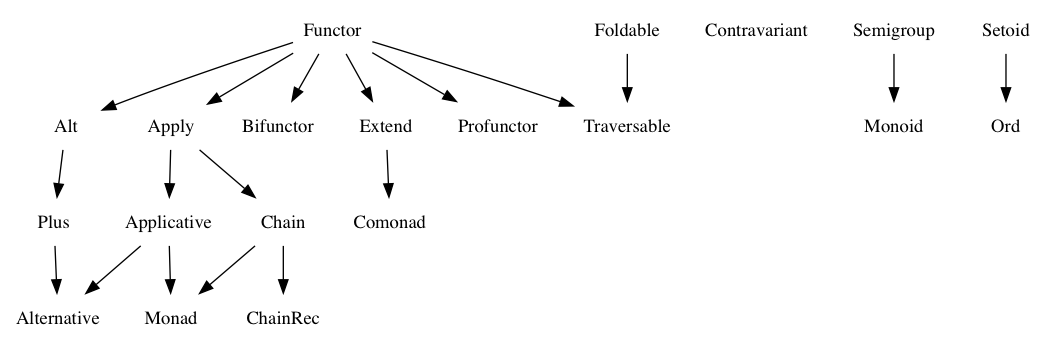
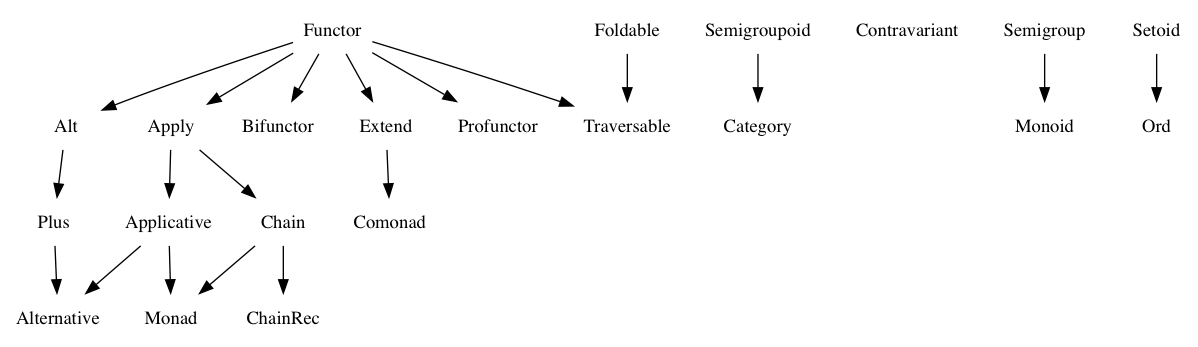
Add Category spec

diff --git a/test.js b/test.js
@@ -20,6 +20,7 @@ const ord = require('./laws/ord');
 const plus = require('./laws/plus');
 const semigroup = require('./laws/semigroup');
 const semigroupoid = require('./laws/semigroupoid');
+const category = require('./laws/category');
 const setoid = require('./laws/setoid');
 const traversable = require('./laws/traversable');
 
@@ -50,6 +51,11 @@ exports.applicative = {
 
 exports.apply = {
   composition: test(apply.composition(Id)(equality)),
+};
+
+exports.category = {
+  leftIdentity: test(category.leftIdentity(x => x + 1)(equality)),
+  rightIdentity: test(category.rightIdentity(x => x + 1)(equality)),
 };
 
 exports.chain = {

diff --git a/laws/category.js b/laws/category.js
@@ -1,0 +1,26 @@
+'use strict';
+
+const {compose, id} = require('..');
+
+/**
+
+   ### Category
+
+   1. `a.compose(C.id())` is equivalent to `a` (right identity)
+   2. `C.id().compose(a)` is equivalent to `a` (left identity)
+
+**/
+
+const leftIdentity = f => eq => x => {
+  const a = f[compose](Function[id]())(x);
+  const b = f(x);
+  return eq(a, b);
+};
+
+const rightIdentity = f => eq => x => {
+  const a = Function[id]()[compose](f)(x);
+  const b = f(x);
+  return eq(a, b);
+};
+
+module.exports = {leftIdentity, rightIdentity};

diff --git a/index.js b/index.js
@@ -9,6 +9,7 @@
     equals: 'fantasy-land/equals',
     lte: 'fantasy-land/lte',
     compose: 'fantasy-land/compose',
+    id: 'fantasy-land/id',
     concat: 'fantasy-land/concat',
     empty: 'fantasy-land/empty',
     map: 'fantasy-land/map',

diff --git a/internal/patch.js b/internal/patch.js
@@ -37,4 +37,9 @@ module.exports = () => {
       return f(g(x));
     };
   };
+  Function[fl.id] = function() {
+    return function(x) {
+      return x;
+    };
+  };
 };

diff --git a/README.md b/README.md
@@ -12,6 +12,7 @@ structures:
 * [Setoid](#setoid)
 * [Ord](#ord)
 * [Semigroupoid](#semigroupoid)
+* [Category](#category)
 * [Semigroup](#semigroup)
 * [Monoid](#monoid)
 * [Functor](#functor)
@@ -31,7 +32,7 @@ structures:
 * [Bifunctor](#bifunctor)
 * [Profunctor](#profunctor)
 
-<img src="figures/dependencies.png" width="888" height="294" />
+<img src="figures/dependencies.png" width="888" height="257" />
 
 ## General
 
@@ -164,6 +165,32 @@ A value which has a Semigroupoid must provide a `compose` method. The
        unspecified.
 
 2. `compose` must return a value of the same Semigroupoid.
+
+### Category
+
+A value that implements the Category specification must also implement
+the [Semigroupoid](#semigroupoid) specification.
+
+1. `a.compose(C.id())` is equivalent to `a` (right identity)
+2. `C.id().compose(a)` is equivalent to `a` (left identity)
+
+#### `id` method
+
+```hs
+id :: Category c => () -> c a a
+```
+
+A value which has a Category must provide an `id` function on its
+[type representative](#type-representatives):
+
+    C.id()
+
+Given a value `c`, one can access its type representative via the
+`constructor` property:
+
+    c.constructor.id()
+
+1. `id` must return a value of the same Category
 
 ### Semigroup
 
